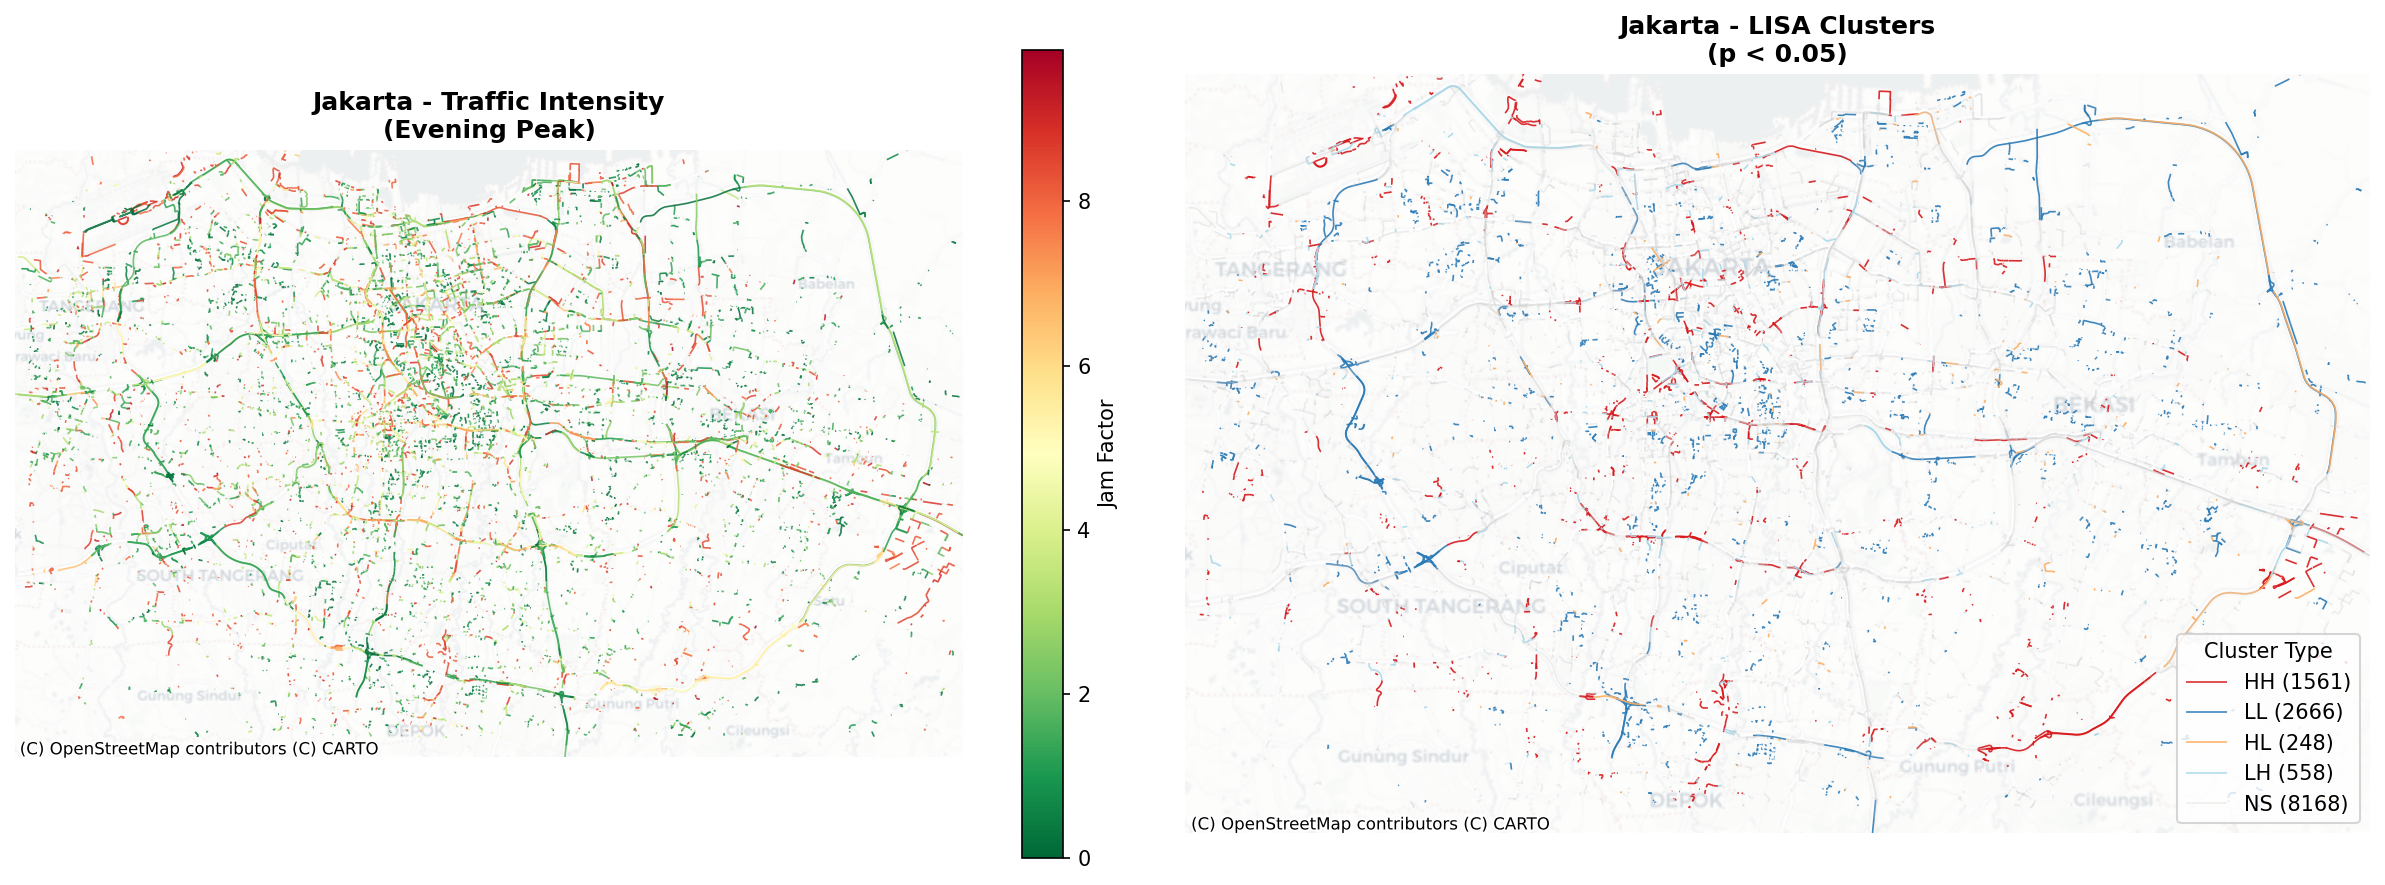
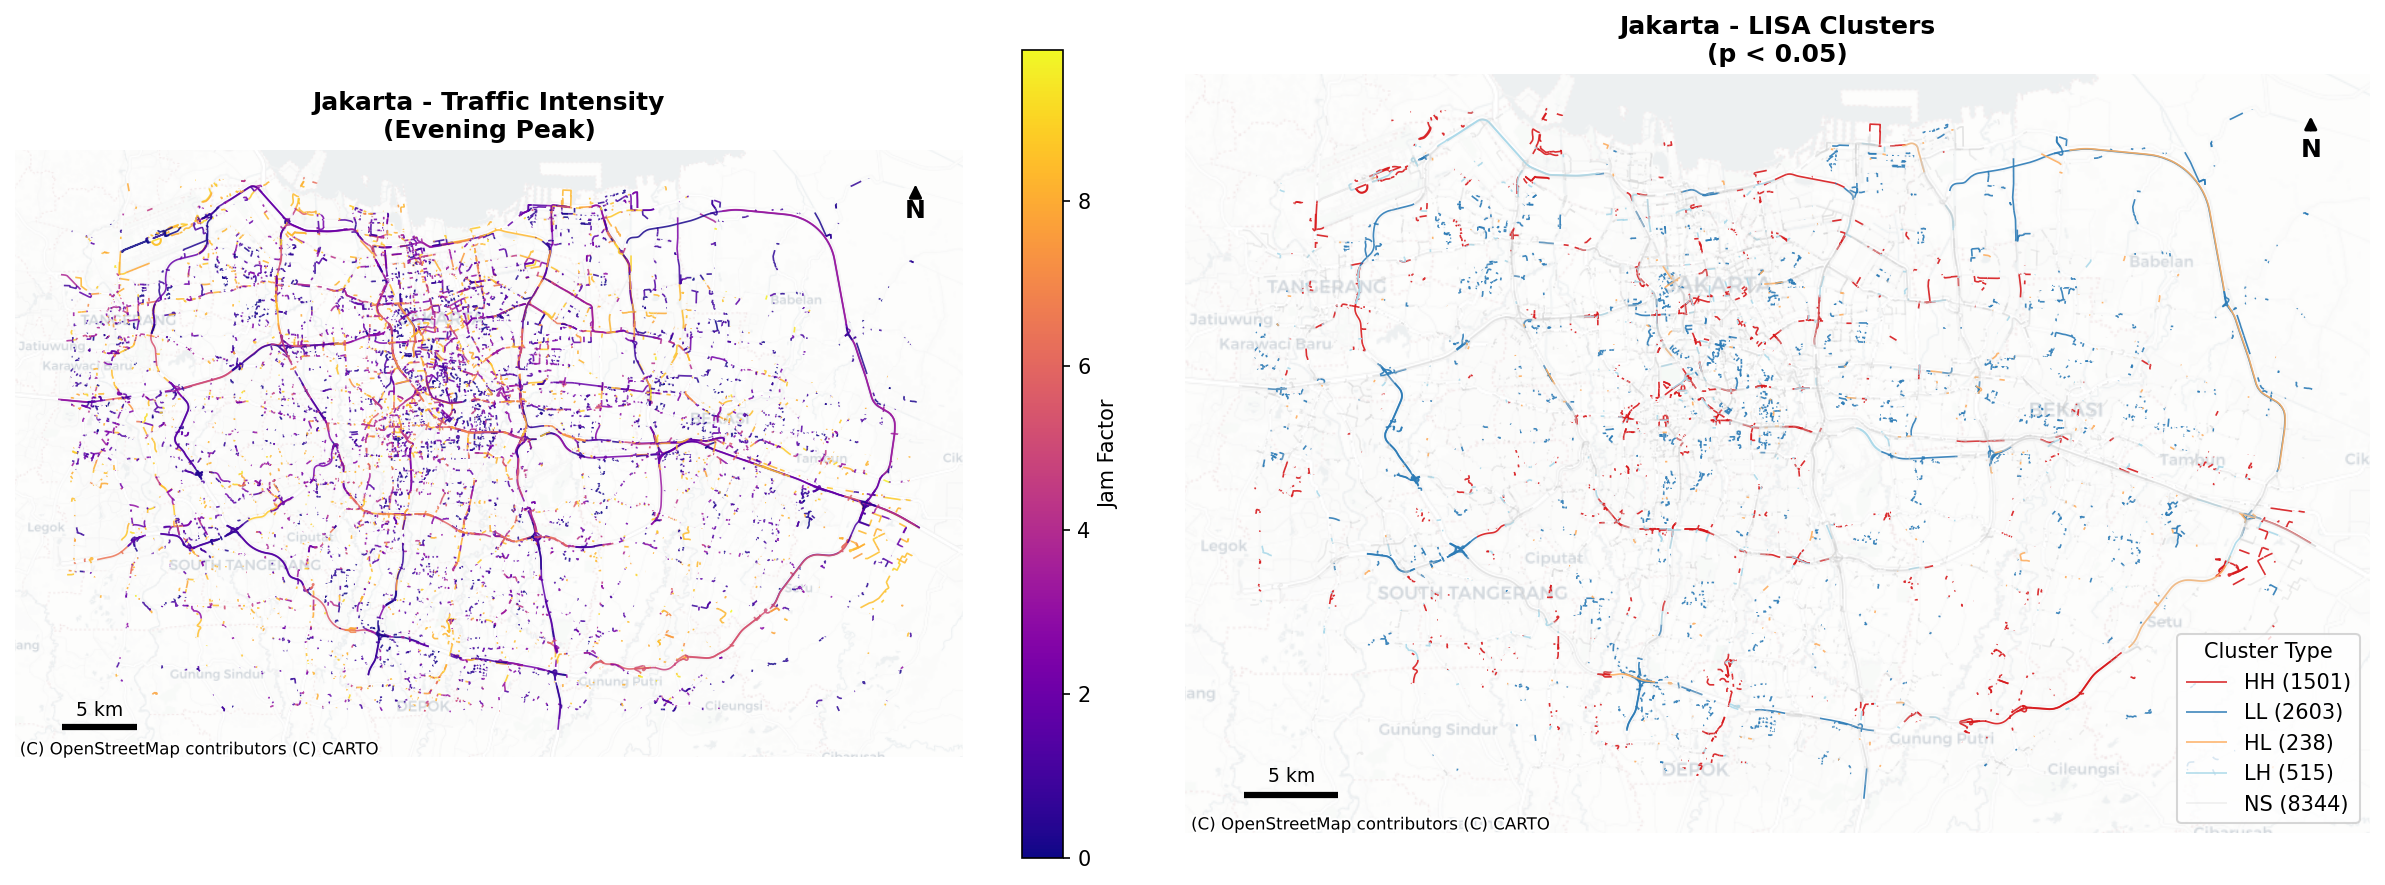
figures: regenerate jkt_lisa_clusters with CVD-safe colormap + map furniture
Re-renders the saved canonical LISA classification
(lisa_results/jkt_evening_peak_lisa.gpkg) without recomputing
permutation inference, so cluster counts are unchanged. Replaces the
red-green RdYlGn_r jam-factor ramp with plasma and adds scale bar and
north arrow to both panels (ISPRS submit-check warnings).

diff --git a/regenerate_lisa_figure.py b/regenerate_lisa_figure.py
@@ -1,0 +1,93 @@
+#!/usr/bin/env python3
+"""
+Regenerate figures/jkt_lisa_clusters.png from the saved canonical LISA
+classification (lisa_results/jkt_evening_peak_lisa.gpkg) without recomputing
+the permutation inference, so cluster counts stay identical to the published
+run.
+
+Changes vs the original advanced_spatial_analysis.plot_lisa_map render:
+- CVD-safe 'plasma' colormap for the jam-factor panel (was RdYlGn_r,
+  a red-green ramp unreadable under deuteranopia/protanopia).
+- Scale bar and north arrow on both map panels.
+"""
+
+import math
+from pathlib import Path
+
+import contextily as ctx
+import geopandas as gpd
+import matplotlib.pyplot as plt
+
+FIGURES_DIR = Path("figures")
+LISA_GPKG = Path("lisa_results/jkt_evening_peak_lisa.gpkg")
+CITY_NAME = "Jakarta"
+
+# Same cluster palette as advanced_spatial_analysis.plot_lisa_map
+CLUSTER_COLORS = {'HH': '#d7191c', 'LL': '#2c7bb6', 'HL': '#fdae61',
+                  'LH': '#abd9e9', 'NS': '#cccccc'}
+
+
+def add_scalebar_and_north(ax, gdf_3857, bar_km=5):
+    """Draw a ground-distance scale bar (bottom-left) and north arrow
+    (top-right) in EPSG:3857 axis units."""
+    xmin, xmax = ax.get_xlim()
+    ymin, ymax = ax.get_ylim()
+    # Web-Mercator units are metres / cos(lat); correct to ground metres.
+    lat = gdf_3857.to_crs(4326).geometry.union_all().centroid.y
+    bar_len = bar_km * 1000 / math.cos(math.radians(lat))
+    x0 = xmin + 0.05 * (xmax - xmin)
+    y0 = ymin + 0.05 * (ymax - ymin)
+    ax.plot([x0, x0 + bar_len], [y0, y0], color='black', lw=3,
+            solid_capstyle='butt', zorder=10)
+    ax.text(x0 + bar_len / 2, y0 + 0.012 * (ymax - ymin), f'{bar_km} km',
+            ha='center', va='bottom', fontsize=9, zorder=10)
+    xn = xmin + 0.95 * (xmax - xmin)
+    yn = ymin + 0.90 * (ymax - ymin)
+    ax.annotate('N', xy=(xn, yn + 0.05 * (ymax - ymin)), xytext=(xn, yn),
+                ha='center', va='center', fontsize=12, fontweight='bold',
+                arrowprops=dict(arrowstyle='-|>', color='black', lw=1.5),
+                zorder=10)
+
+
+def main():
+    gdf = gpd.read_file(LISA_GPKG).to_crs(3857)
+    counts = gdf['lisa_cluster'].value_counts().to_dict()
+    print(f"Loaded {len(gdf)} segments; cluster counts: {counts}")
+
+    fig, axes = plt.subplots(1, 2, figsize=(16, 8))
+
+    # Left: traffic intensity (CVD-safe sequential colormap)
+    ax1 = axes[0]
+    gdf.plot(column='jam_factor_mean', cmap='plasma', linewidth=0.8, ax=ax1,
+             legend=True, legend_kwds={'label': 'Jam Factor', 'shrink': 0.7},
+             alpha=0.85)
+    ctx.add_basemap(ax1, source=ctx.providers.CartoDB.Positron, alpha=0.4)
+    ax1.set_title(f'{CITY_NAME} - Traffic Intensity\n(Evening Peak)',
+                  fontsize=12, fontweight='bold')
+    ax1.set_axis_off()
+    add_scalebar_and_north(ax1, gdf)
+
+    # Right: LISA clusters (unchanged palette)
+    ax2 = axes[1]
+    for cluster_type, color in CLUSTER_COLORS.items():
+        subset = gdf[gdf['lisa_cluster'] == cluster_type]
+        if len(subset) > 0:
+            a = 0.3 if cluster_type == 'NS' else 0.9
+            subset.plot(ax=ax2, color=color, linewidth=0.8,
+                        label=f'{cluster_type} ({len(subset)})', alpha=a)
+    ctx.add_basemap(ax2, source=ctx.providers.CartoDB.Positron, alpha=0.4)
+    ax2.set_title(f'{CITY_NAME} - LISA Clusters\n(p < 0.05)',
+                  fontsize=12, fontweight='bold')
+    ax2.legend(loc='lower right', title='Cluster Type')
+    ax2.set_axis_off()
+    add_scalebar_and_north(ax2, gdf)
+
+    plt.tight_layout()
+    out = FIGURES_DIR / 'jkt_lisa_clusters.png'
+    plt.savefig(out, dpi=150, bbox_inches='tight', facecolor='white')
+    plt.close()
+    print(f"Saved: {out}")
+
+
+if __name__ == '__main__':
+    main()
